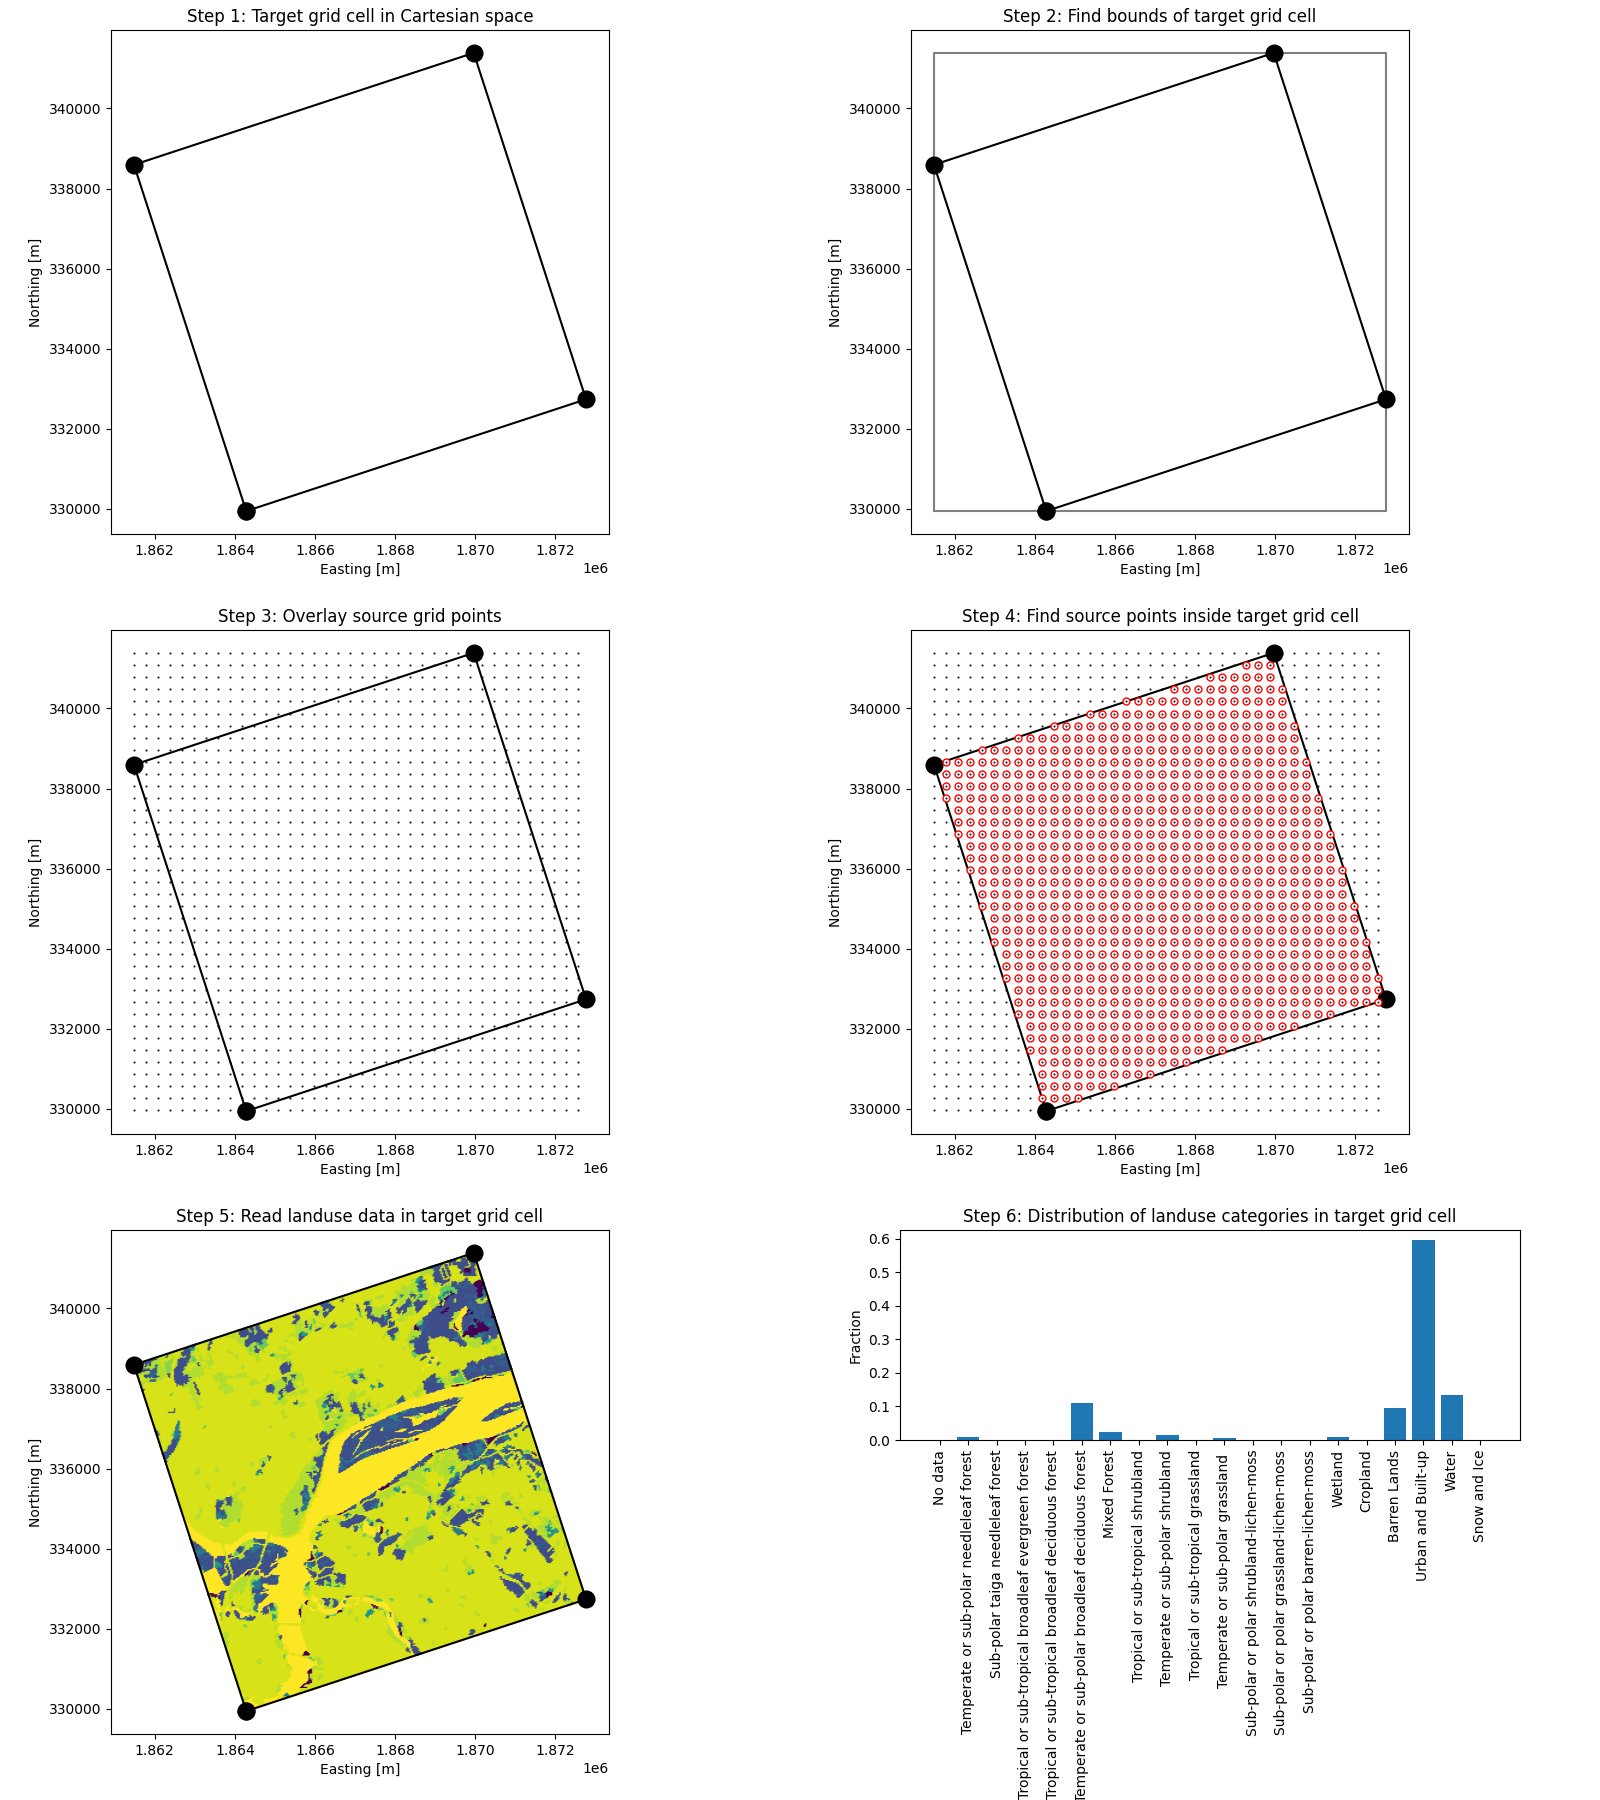
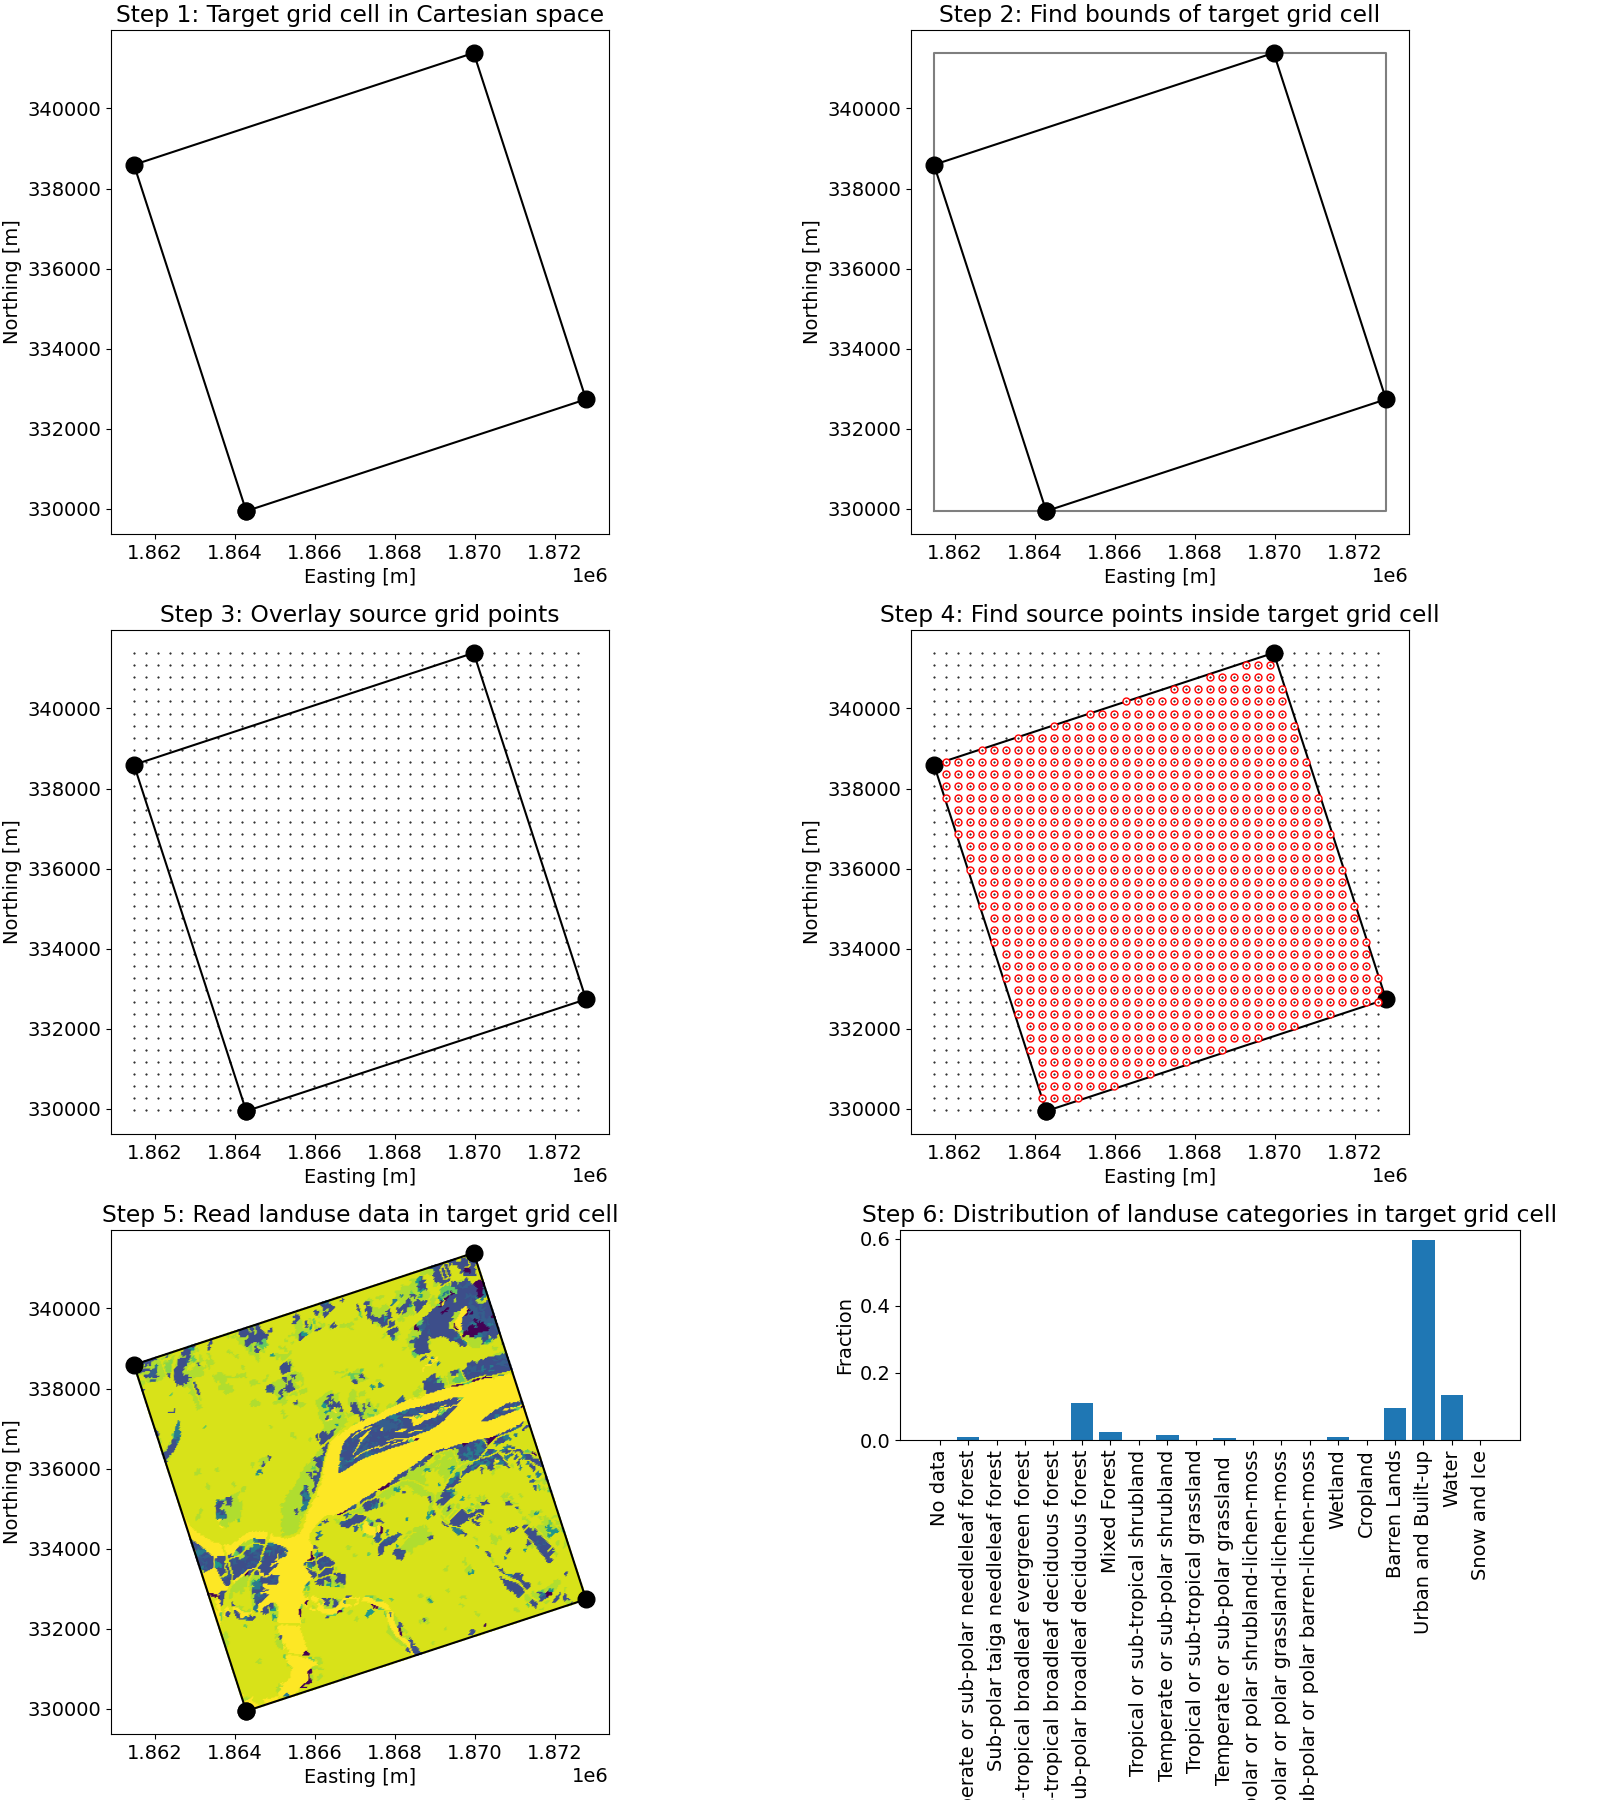
fix typo; increase font size in demo

diff --git a/wrf_nalcms/nalcms.py b/wrf_nalcms/nalcms.py
@@ -167,11 +167,11 @@ def process_nalcms_to_geo_em_urban(nalcms, geo_em, urban_multi, urban_multi_clas
             # set landuse index
             if dominant_class == 17:
                 if urban_multi:
-                    if fractions[dominant_class] >= urban_multiclasses[2]:
+                    if fractions[dominant_class] >= urban_multi_classes[2]:
                         geo_em.LU_INDEX[0,j,i] = 33
-                    elif fractions[dominant_class] >= urban_multiclasses[1]:
+                    elif fractions[dominant_class] >= urban_multi_classes[1]:
                         geo_em.LU_INDEX[0,j,i] = 32
-                    elif fractions[dominant_class] >= urban_multiclasses[0]:
+                    elif fractions[dominant_class] >= urban_multi_classes[0]:
                         geo_em.LU_INDEX[0,j,i] = 31
                     else:
                         geo_em.LU_INDEX[0,j,i] = NALCMS_CLASSES[dominant_class]['wrf_class']

diff --git a/wrf_nalcms/cli.py b/wrf_nalcms/cli.py
@@ -14,9 +14,9 @@ def cli():
                         help='Path to the geo_em target NetCDF file')
     parser.add_argument('-d', '--demo', action='store_true',
                         help='NALCMS sampling algorithm demo')
-    parser.add_argument('-c', '--classes', type=str, default='all',
+    parser.add_argument('-c', '--classes', type=str, default='urban',
                         choices=['all', 'urban'],
-                        help='Which classes to process')
+                        help='Which classes to process (default urban)')
     parser.add_argument('-u', '--urban', type=str, default='multi',
                         choices=['single', 'multi'],
                         help='Whether to use single or multiple (3) urban classes (default single)')

diff --git a/wrf_nalcms/demo.py b/wrf_nalcms/demo.py
@@ -5,6 +5,8 @@ from wrf_nalcms.nalcms import NALCMS_CLASSES, get_nalcms_data_in_target_grid_cel
 import xarray
 import matplotlib.pyplot as plt
 
+plt.rcParams.update({'font.size': 14})
+
 
 def demo(nalcms, geo_em):
 

diff --git a/README.md b/README.md
@@ -67,6 +67,12 @@ Example use:
 nalcms NA_NALCMS_2010_v2_LC_30m_LAEA_mmu5pix_.tif geo_em.d01.nc
 ```
 
+`nalcms` will:
+
+1. Create a copy of your `geo_em` file;
+2. Update the following fields: `LU_INDEX`, `FRC_URB2D`, `LANDUSEF`;
+3. Ouput the new `geo_em` file with a `new.nc` suffix.
+
 ### Running the algorithm demo
 
 ```
